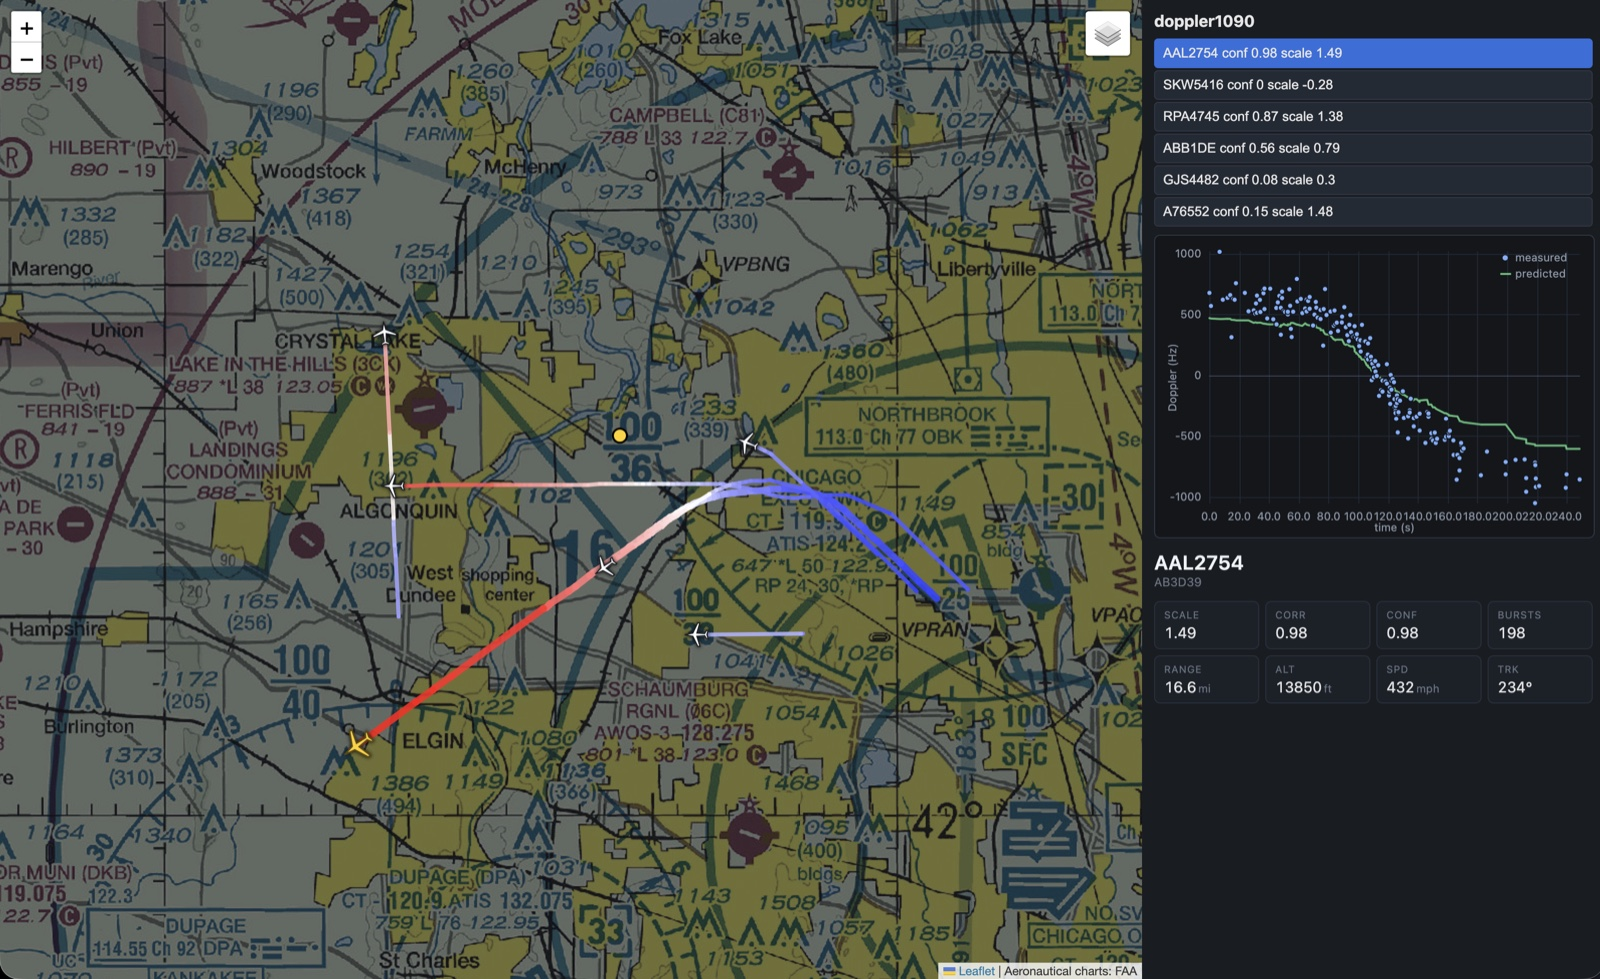
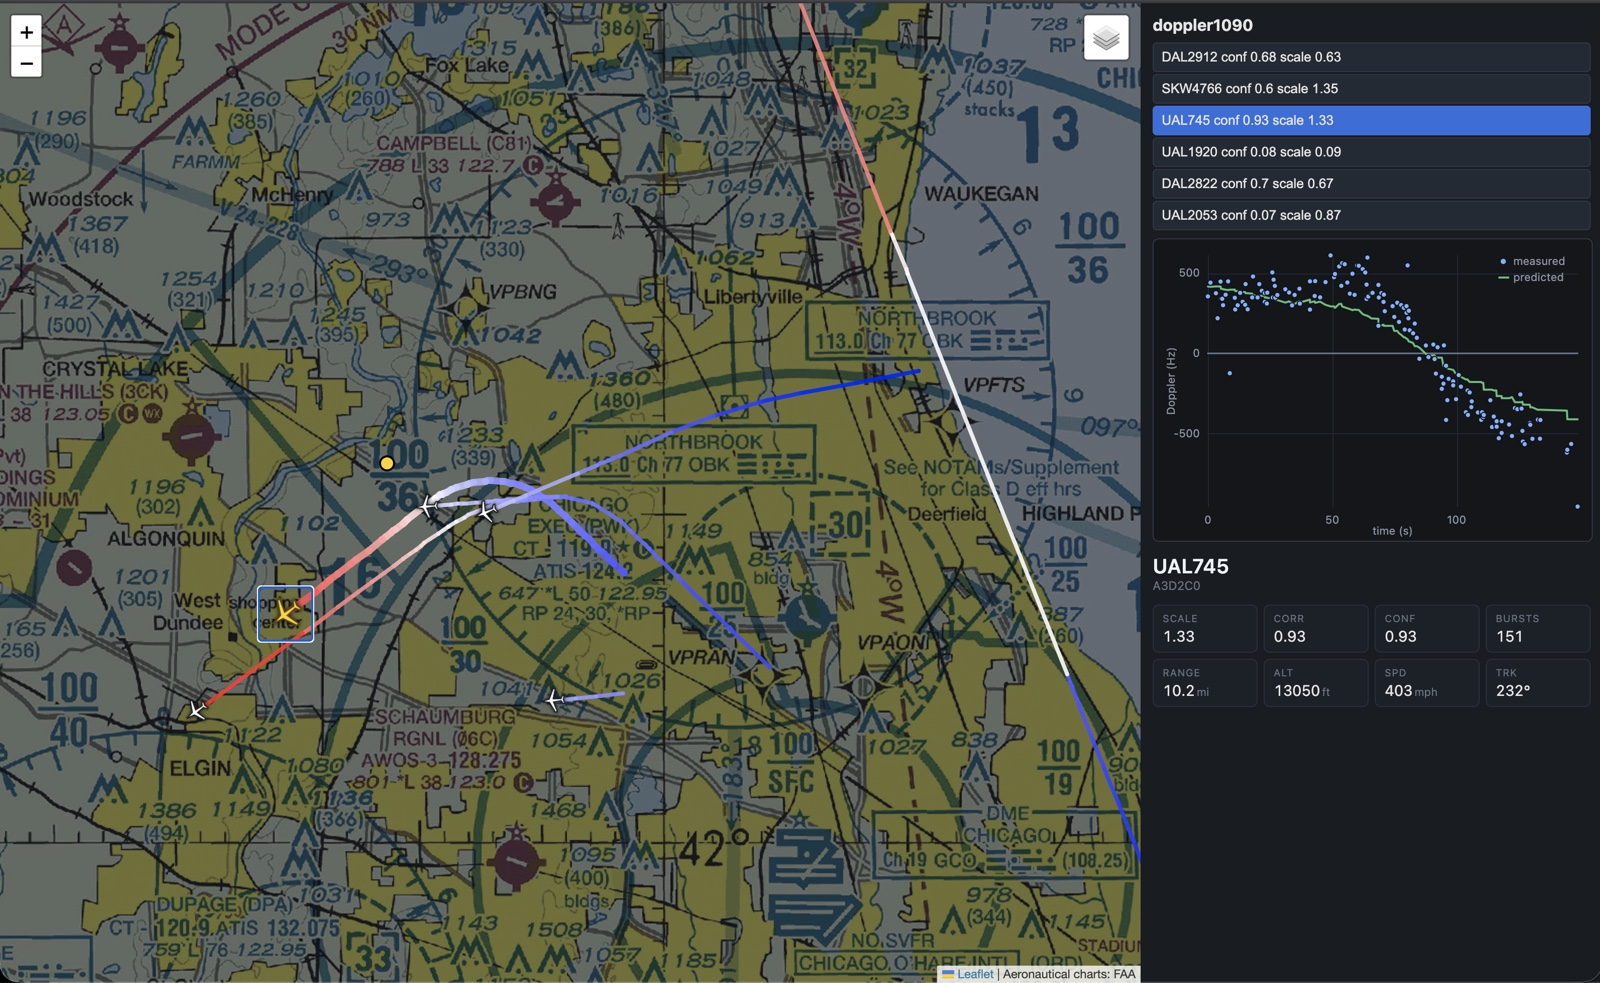
feat: make the 0 Hz reference line more prominent
Brighter, thicker zero line so the Doppler sign-flip / closest-approach
crossing stands out from the grid. Refresh the dashboard screenshot.

diff --git a/doppler1090/web/app.js b/doppler1090/web/app.js
@@ -133,7 +133,7 @@ function niceTicks(min, max, count) {
 
 // Chart palette (dark surface #0c0f14)
 const COL = {
-  grid: '#1a2331', axis: '#38445a', ink: '#8b97a8',
+  grid: '#1a2331', axis: '#38445a', zero: '#6b7c94', ink: '#8b97a8',
   measured: '#7fb0ff', predicted: '#54c07a',
 };
 
@@ -191,10 +191,12 @@ function drawPlot() {
     ctx.moveTo(x, padT); ctx.lineTo(x, H - padB); ctx.stroke();
     ctx.fillStyle = COL.ink; ctx.fillText(v.toFixed(xDec), sx(v), H - padB + 8);
   }
-  // zero line (brighter than the grid)
+  // zero line (the Doppler sign-flip / closest-approach reference — kept
+  // clearly brighter and thicker than the grid)
   const yz = Math.round(sy(0)) + 0.5;
-  ctx.strokeStyle = COL.axis; ctx.beginPath();
+  ctx.strokeStyle = COL.zero; ctx.lineWidth = 1.5; ctx.beginPath();
   ctx.moveTo(padL, yz); ctx.lineTo(W - padR, yz); ctx.stroke();
+  ctx.lineWidth = 1;
 
   // axis titles
   ctx.fillStyle = COL.ink; ctx.font = '11px system-ui, sans-serif';
